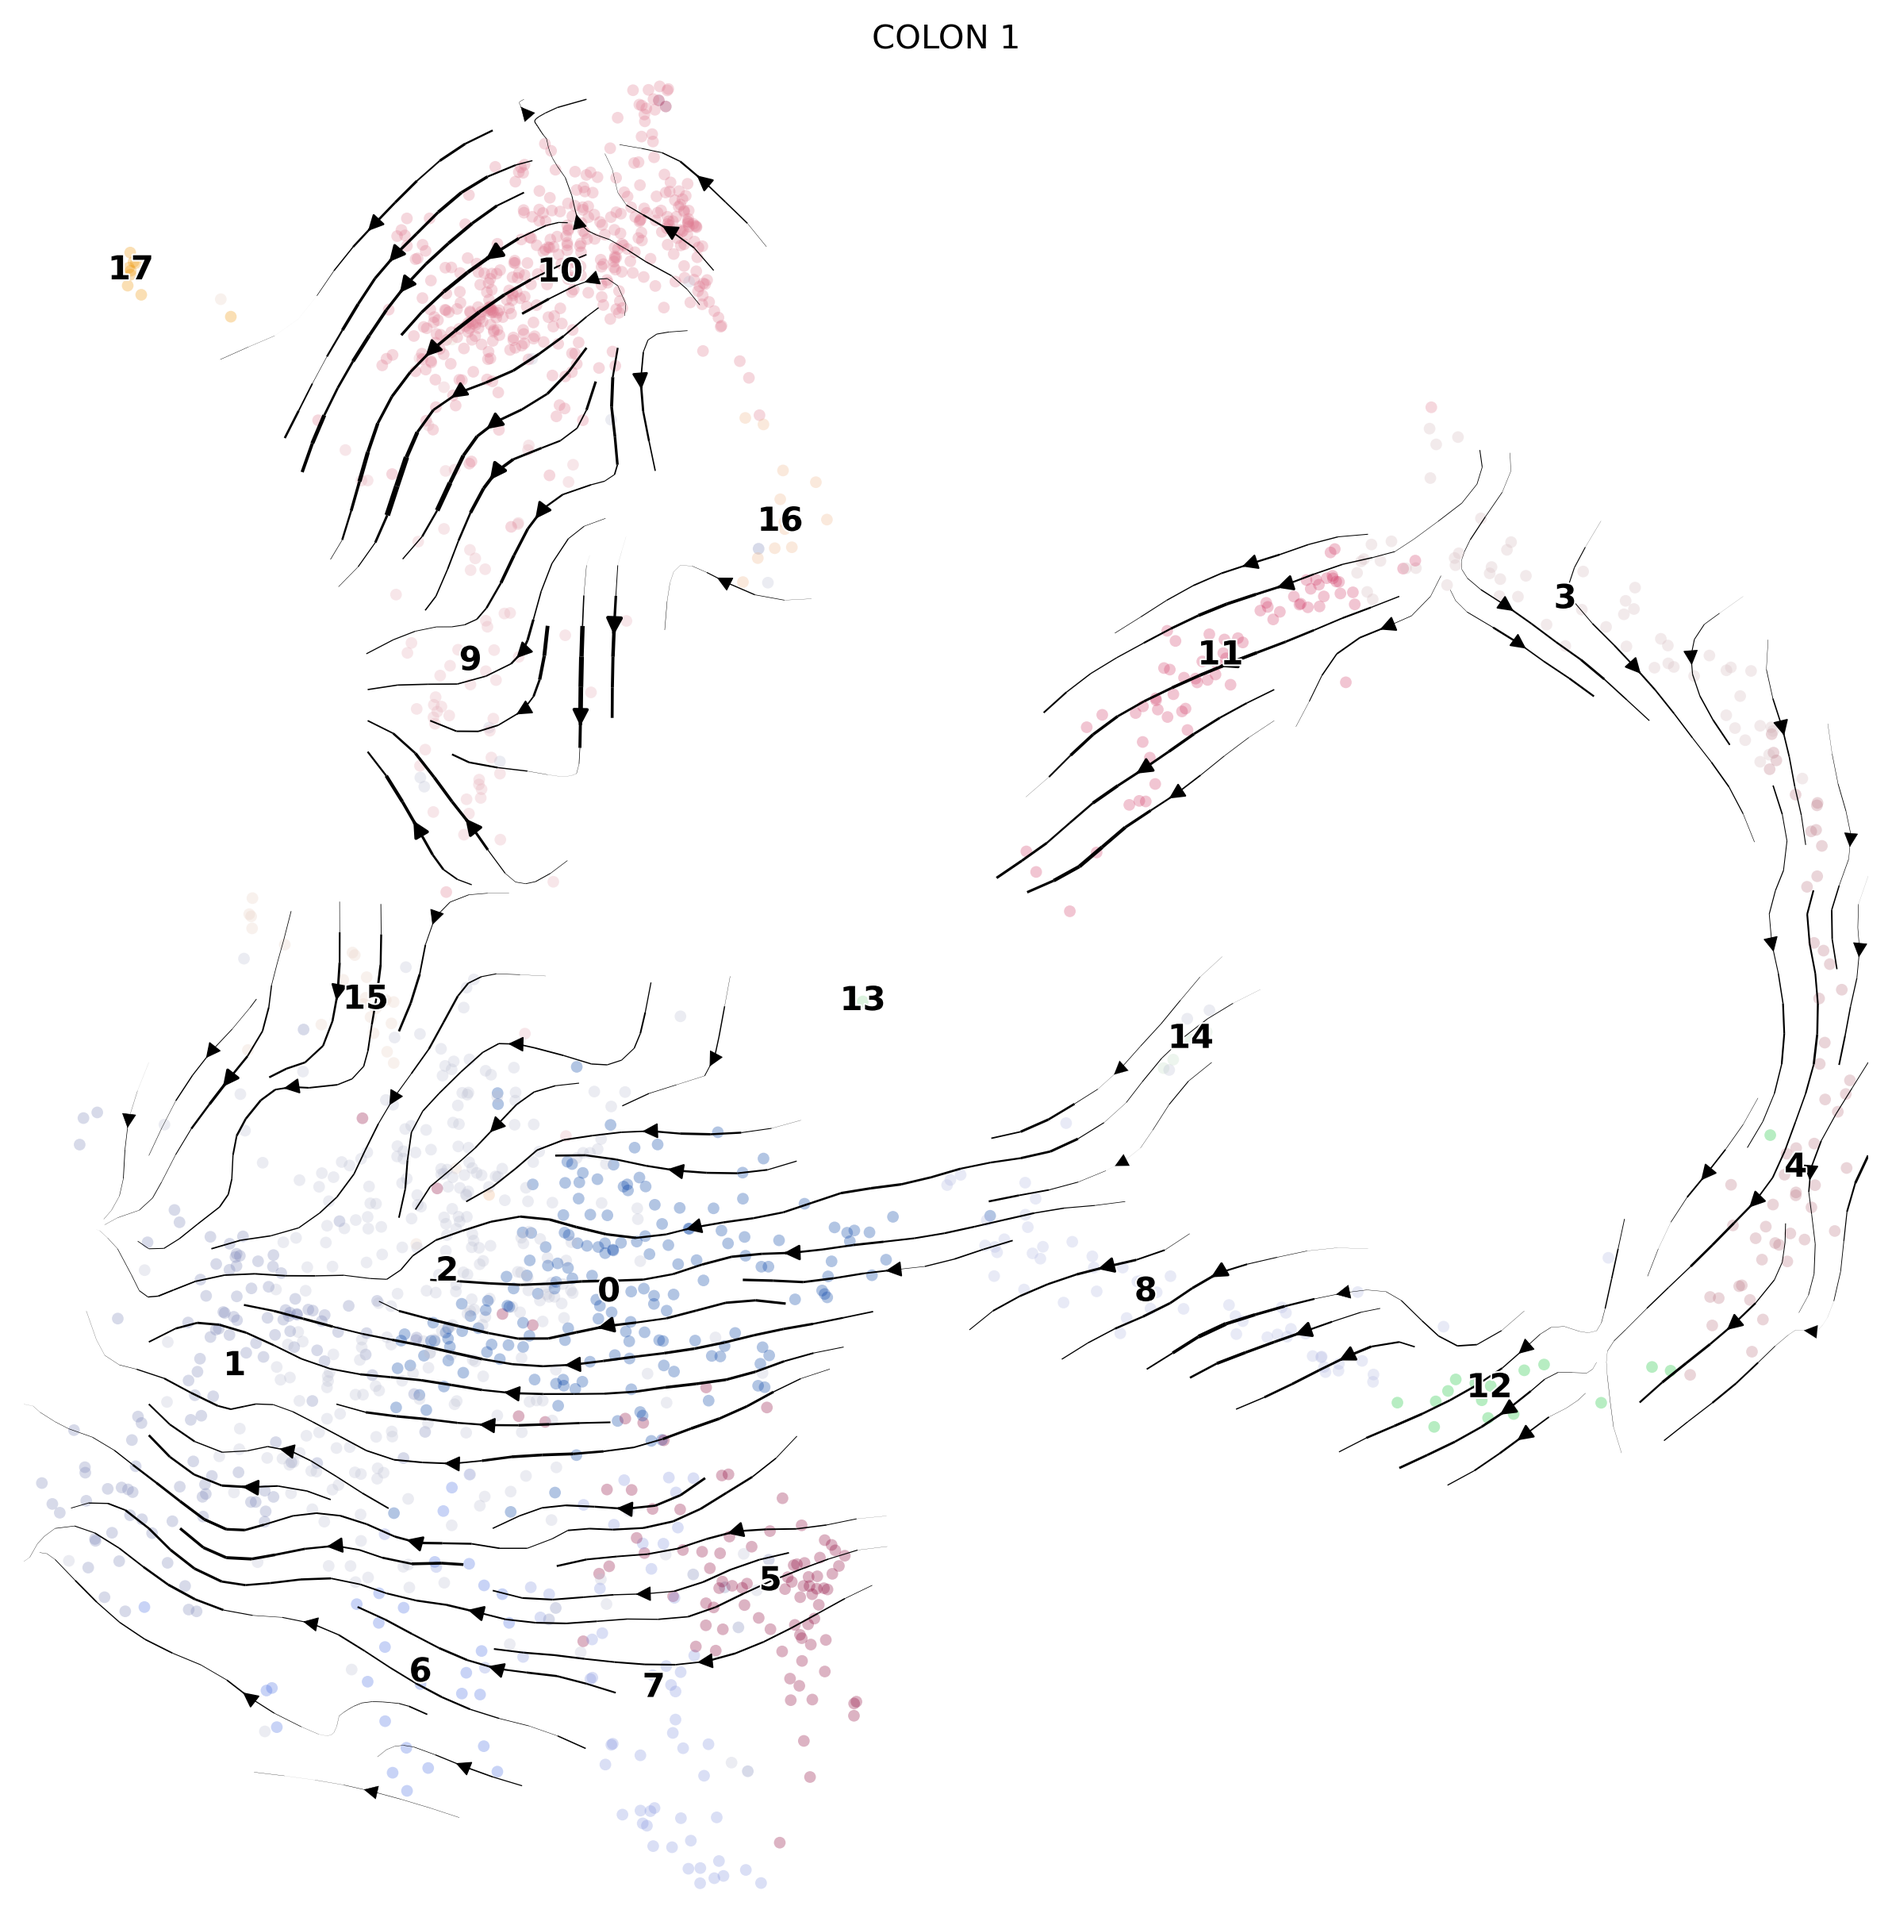
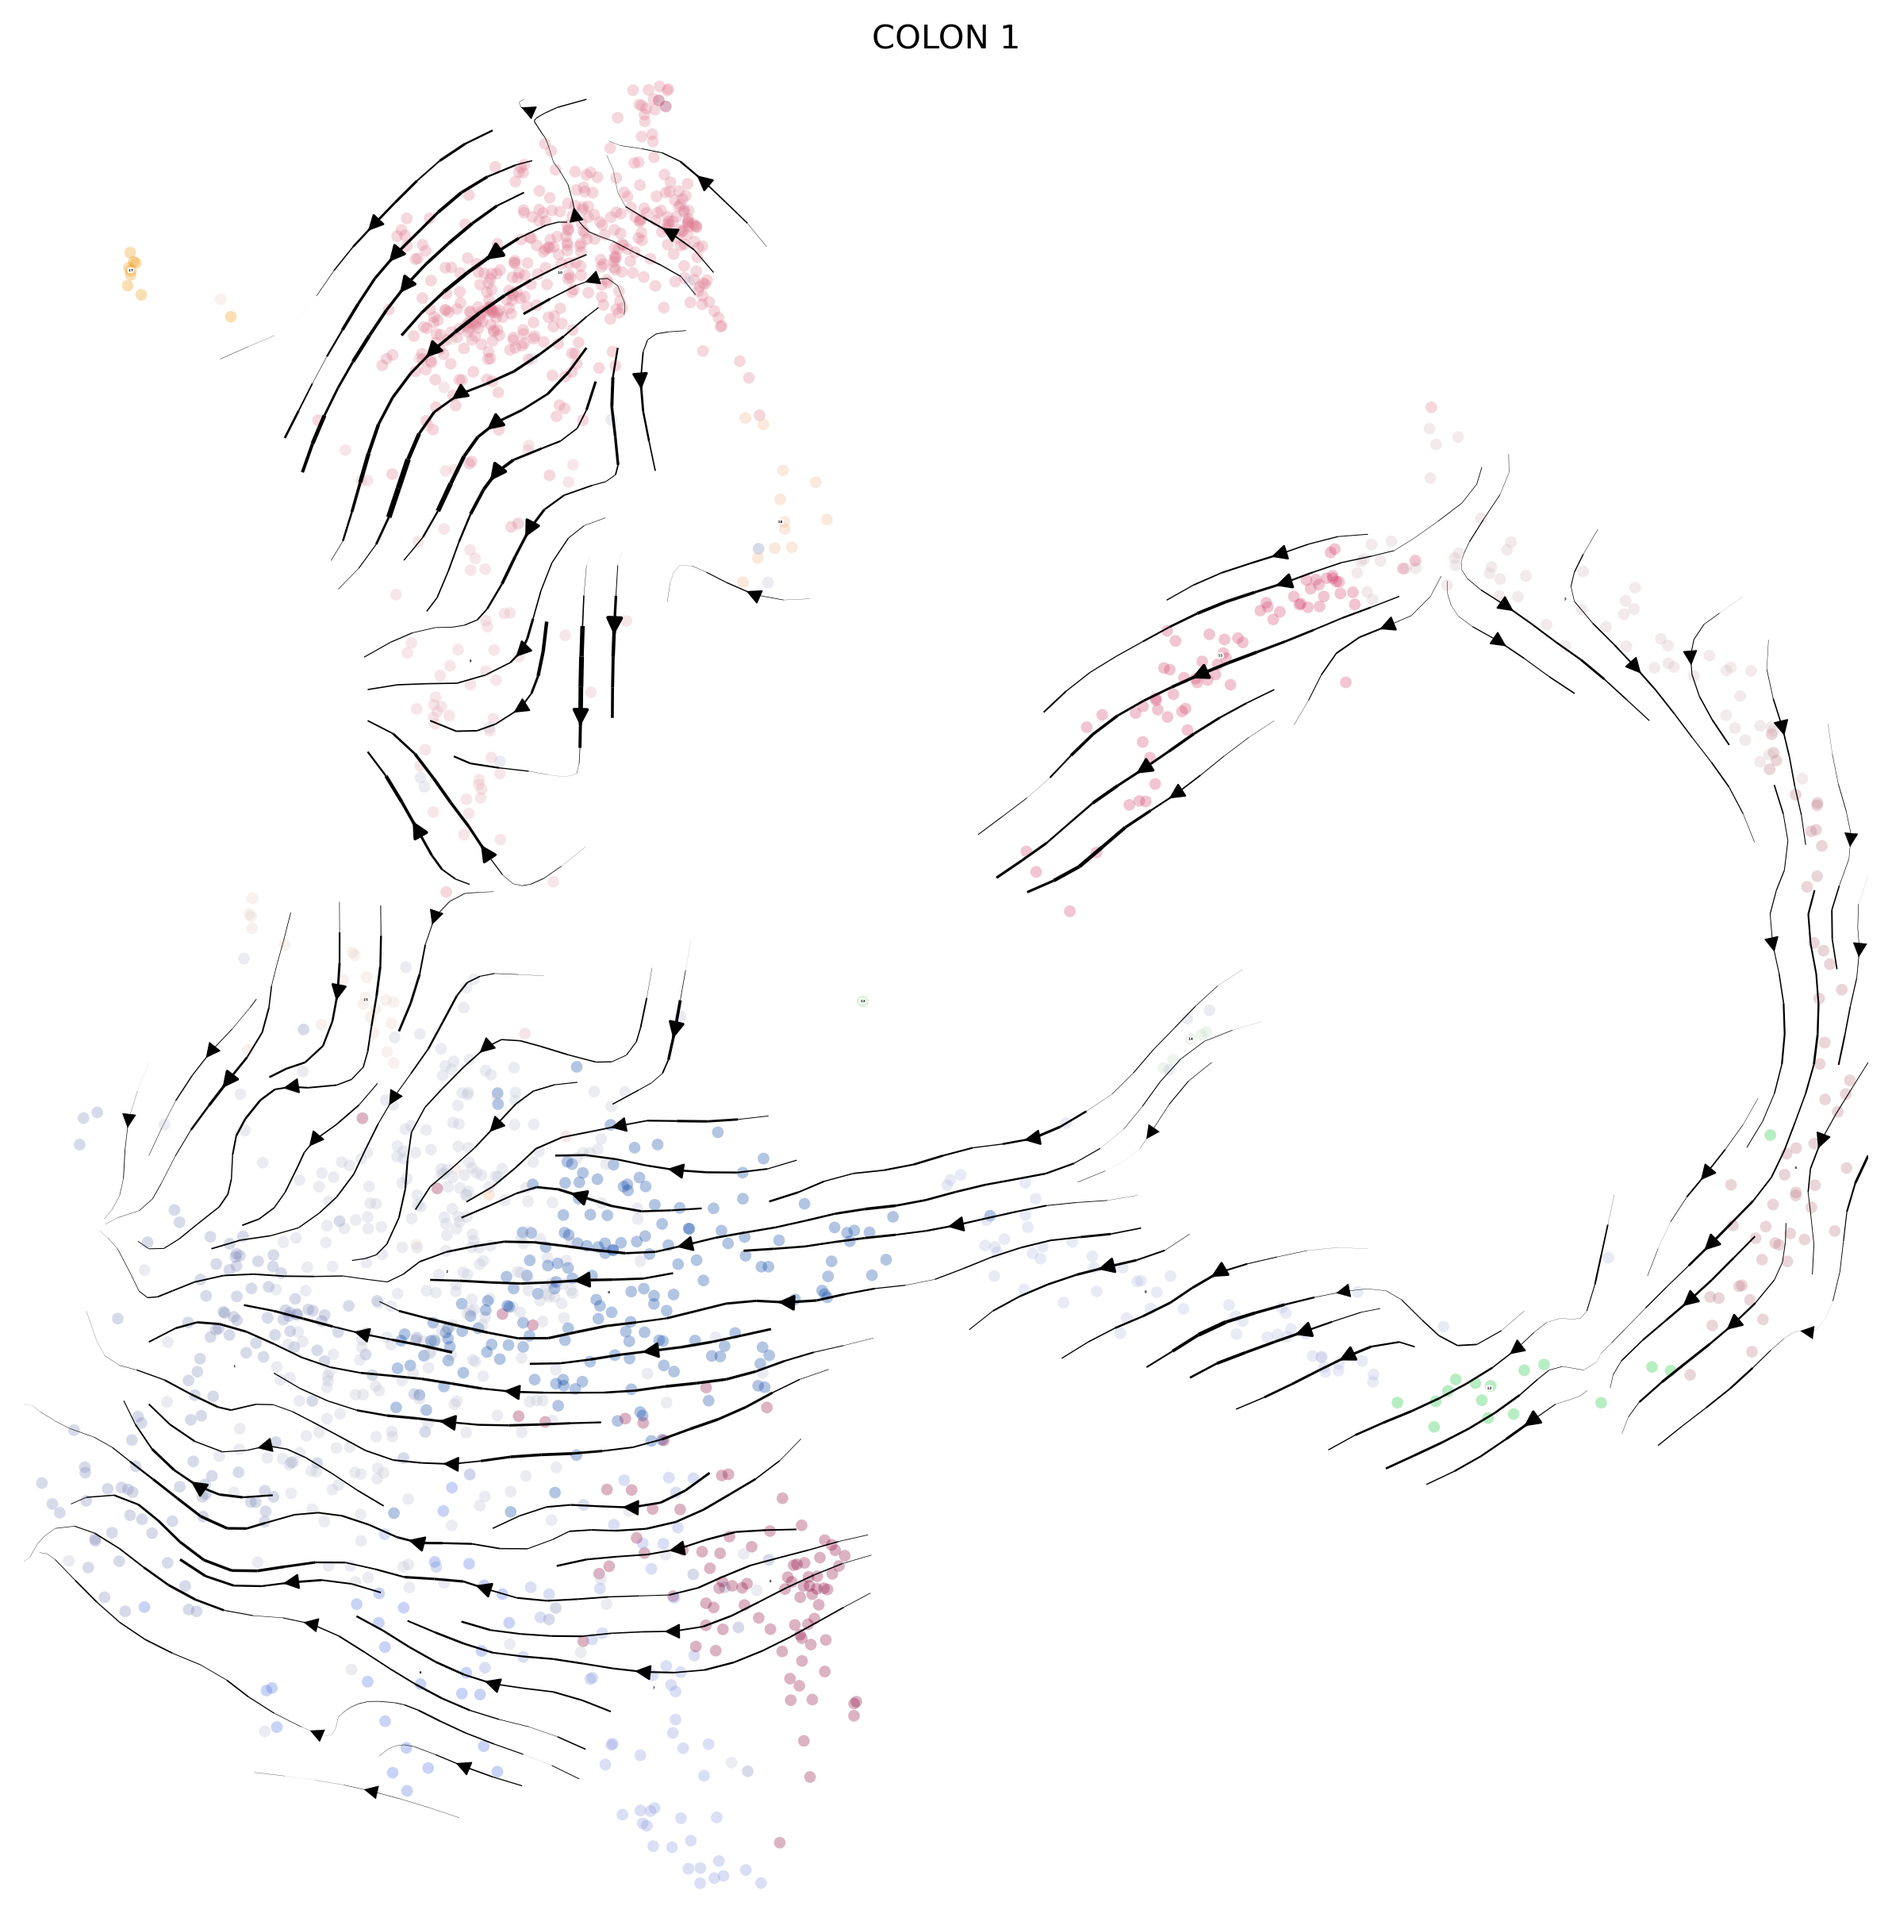
Updated set of plots

diff --git a/scripts/velocities.py b/scripts/velocities.py
@@ -57,7 +57,7 @@ for key,value in samples.items():
     scv.pl.velocity_embedding_stream(
       value, basis='umap', color=clusters,
       save = '%s.png' % key, title = key, show = False,
-      figsize = (10, 10), size = 50, dpi = 300
+      figsize = (10, 10), size = 50, dpi = 300, legend_fontsize = 0
     )
 
 ## Plot RNA velocity arrows.
@@ -266,7 +266,7 @@ for value in samples.values():
 ## Identify final states.
 
 for value in samples.values():
-    cr.tl.final_states(
+    cr.tl.terminal_states(
       value, cluster_key = clusters, weight_connectivities = 0.2,
       use_velocity_uncertainty = True
     )
@@ -274,28 +274,27 @@ for value in samples.values():
 ## Identify root states.
 
 for value in samples.values():
-    cr.tl.root_states(value, cluster_key = clusters)
+    cr.tl.initial_states(value, cluster_key = clusters)
 
 ## Compute the fate maps.
 
 for value in samples.values():
     cr.tl.lineages(value, cluster_key = clusters)
 
-## Find gene importance.
-model = cr.ul.models.GamMGCVModel(adata, n_splines=5, sp=100)  # requires R's 'mgcv' package
+# Compute lineage drivers
 for value in samples.values():
-    cr.tl.gene_importance(value, model, 
+    cr.tl.lineage_drivers(value, cluster_key = clusters)
 
 ## Make plots
 for key in samples:
-    scv.pl.scatter(samples[key], color='final_states', legend_loc='right margin', show = False, dpi = 300, figsize = (10, 10), save = '{}_final_states.png'.format(key))
-    scv.pl.scatter(samples[key], color='root_states', legend_loc='right margin', show = False, dpi = 300, figsize = (10, 10), save = '{}_root_states.png'.format(key))
+    scv.pl.scatter(samples[key], color='terminal_states', legend_loc='right margin', show = False, dpi = 300, figsize = (10, 10), save = '{}_final_states.png'.format(key))
+    scv.pl.scatter(samples[key], color='initial_states', legend_loc='right margin', show = False, dpi = 300, figsize = (10, 10), save = '{}_root_states.png'.format(key))
     cr.pl.lineages(samples[key], dpi = 300, figsize = (10, 10), save = '{}_lineages.png'.format(key))
     scv.pl.scatter(samples[key], color='final_states', color_gradients='to_final_states', legend_loc='right margin', dpi = 300, figsize = (10, 10), save = '{}_lineage_final_states.png'.format(key))
     cr.pl.cluster_fates(samples[key], cluster_key=clusters, mode='paga_pie', node_size_scale=4,
                        title=key, edge_width_scale=1, max_edge_width=2, threshold=0.1, basis='umap',
                        show = False, dpi = 300, figsize = (10, 10), save = '{}_paga.png'.format(key))
-
+#    cr.pl.lineage_drivers(samples[key], cluster_key=clusters, 
 #    Needs to be run after Dynamical Model
 #    scv.tl.recover_latent_time(samples[key], root_key='root_states_probs', end_key='final_states_probs')
 #    scv.pl.scatter(samples[key], color=[clusters, 'latent_time'], fontsize=16, cmap=cm.viridis, perc=[2, 98], colorbar=True, rescale_color=[0, 1],
